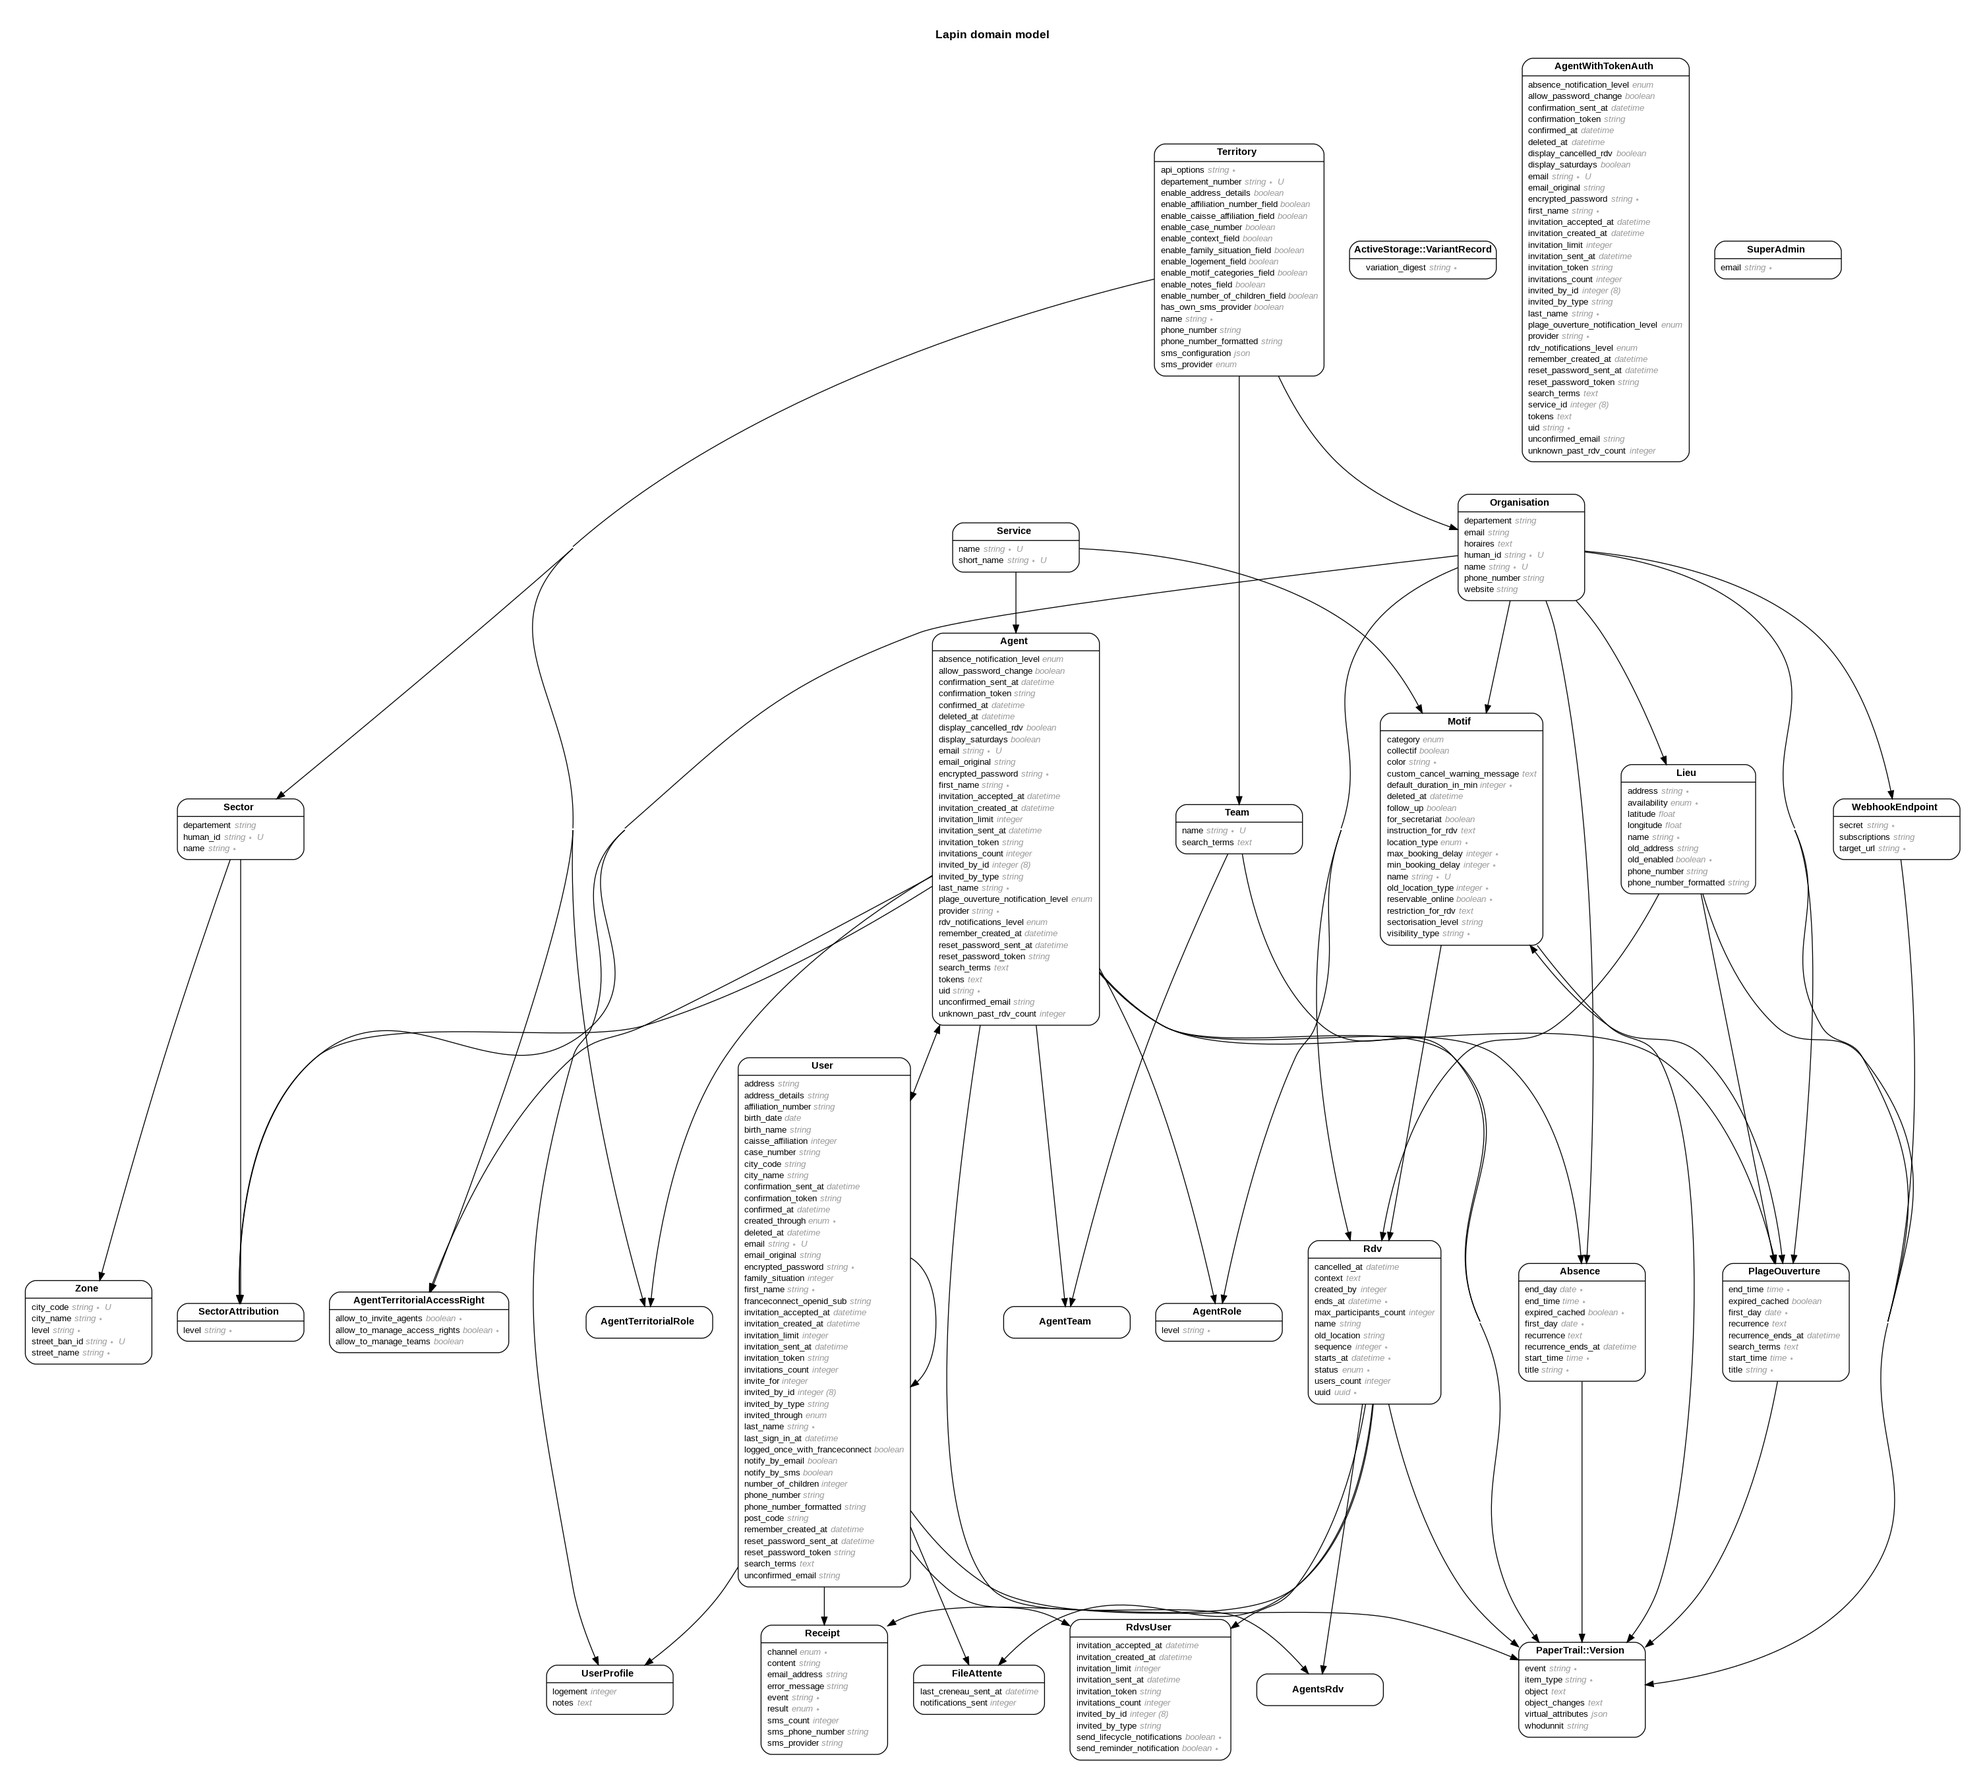
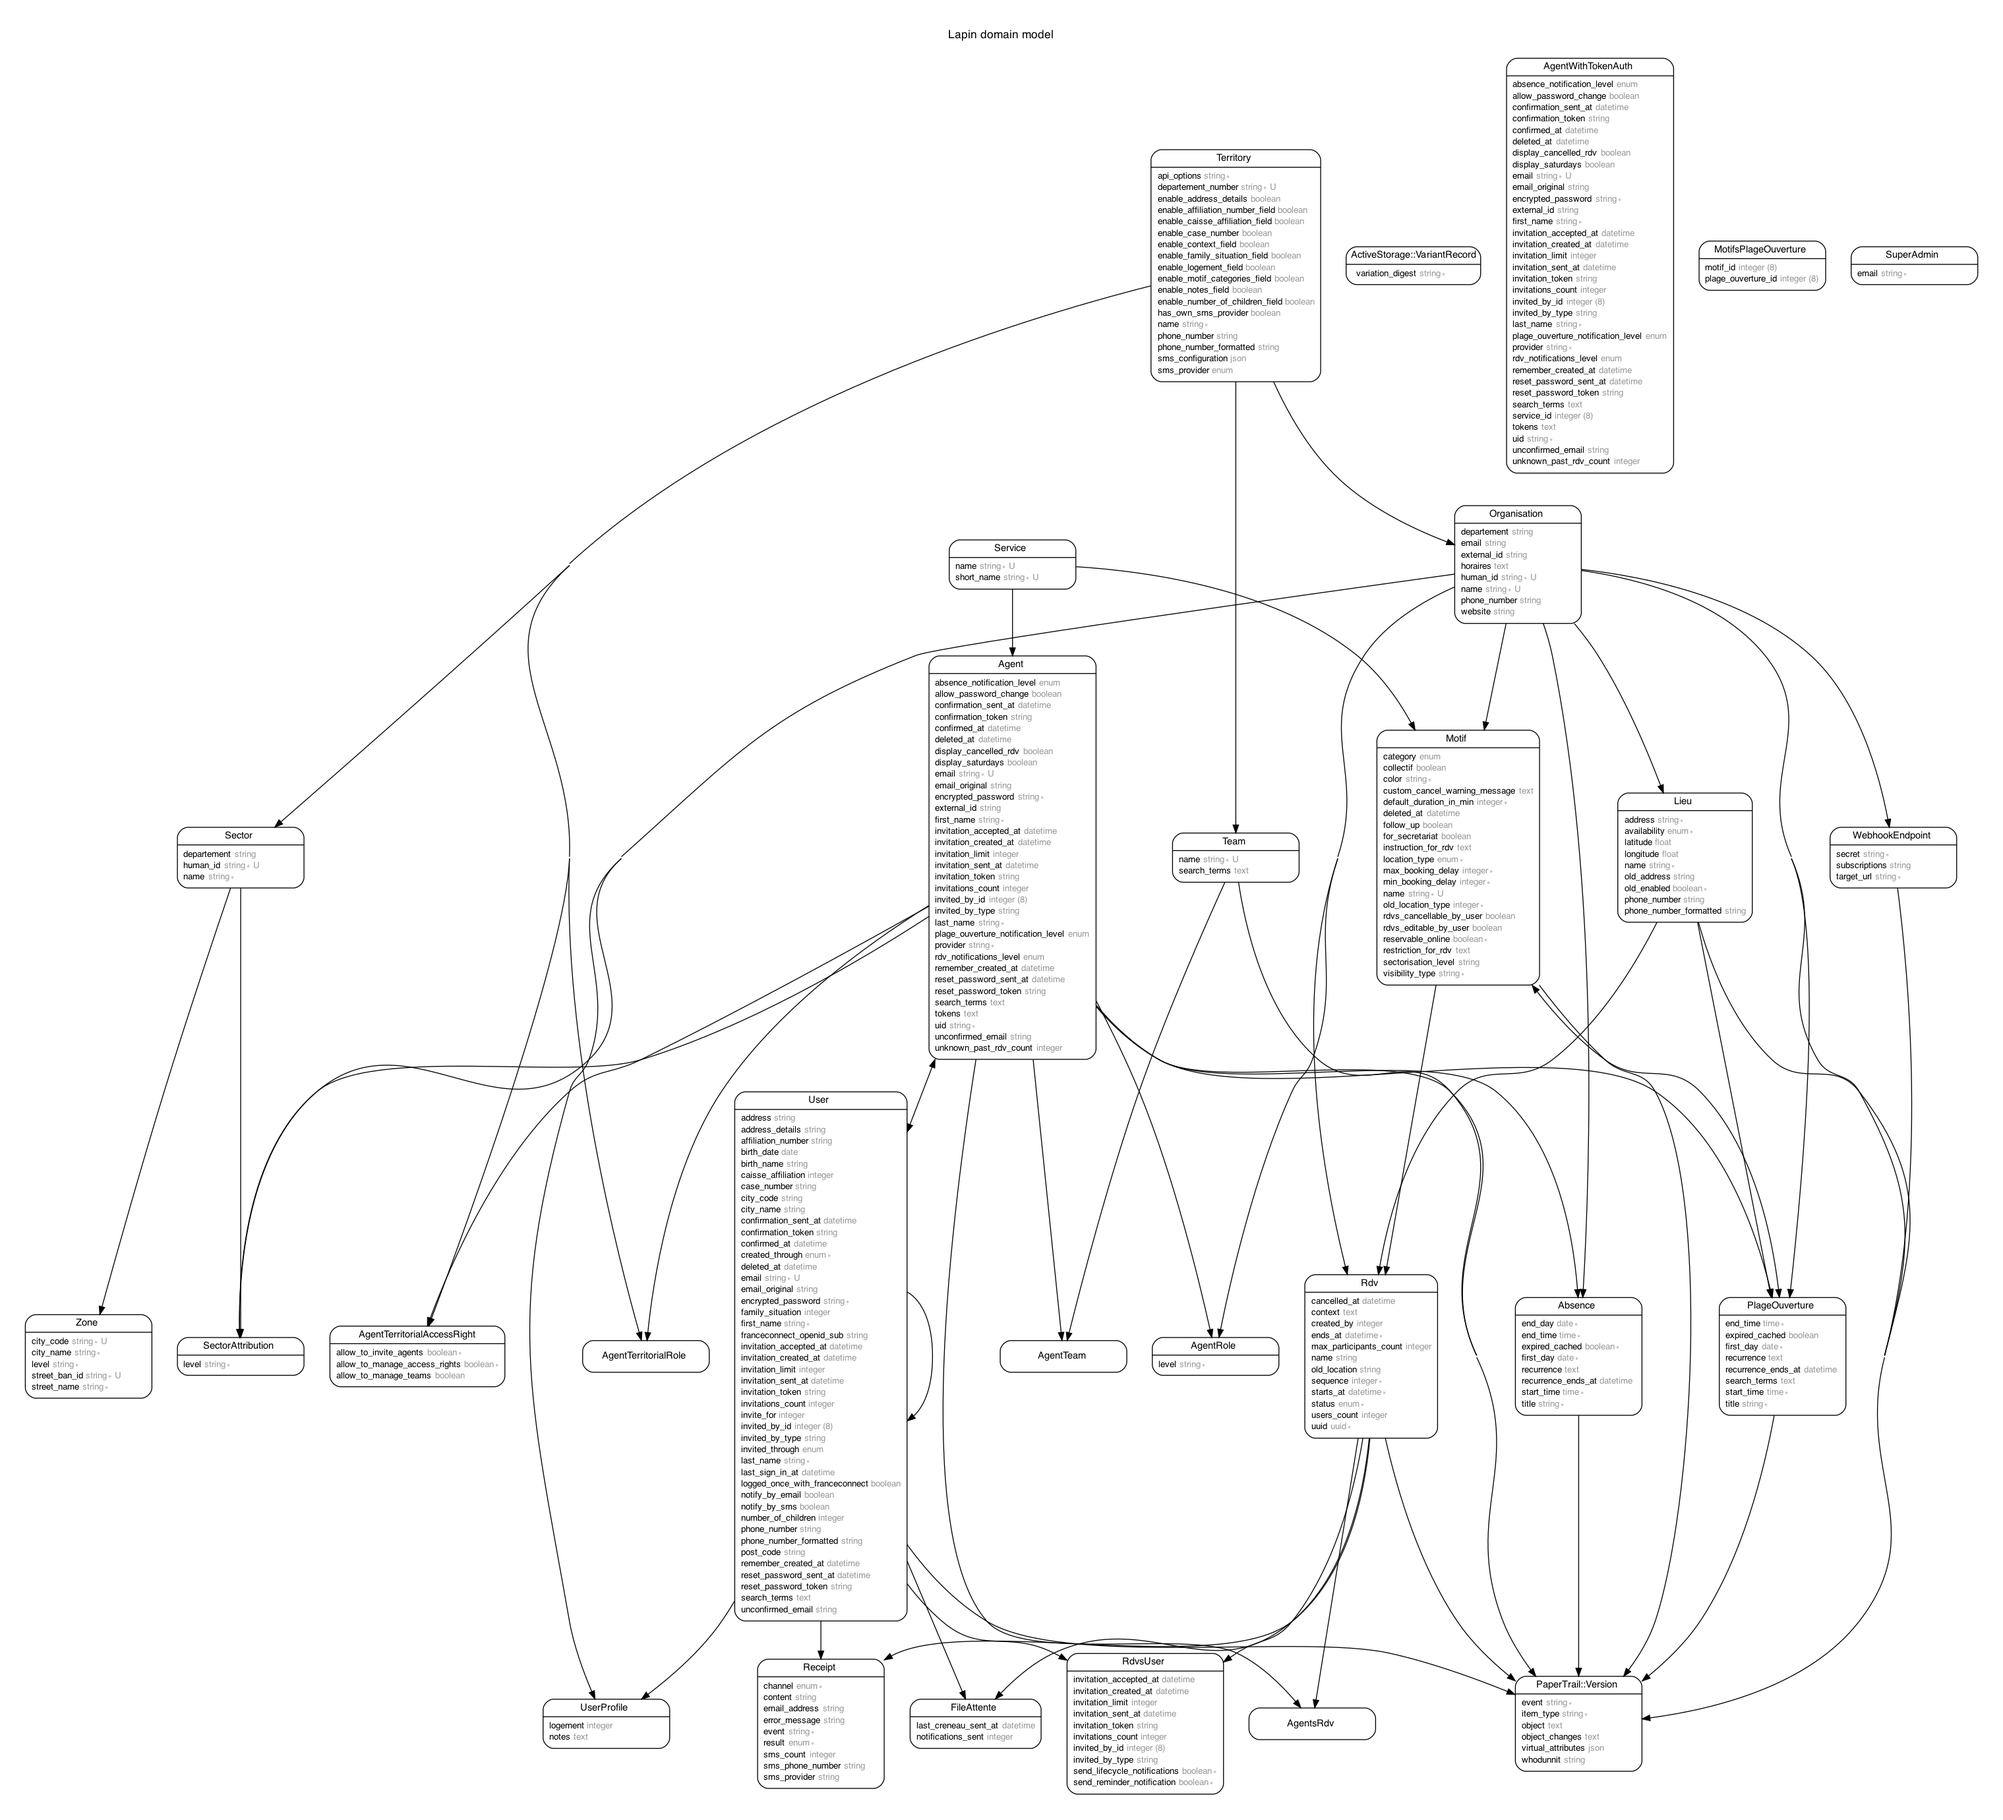
migration and some backfill scripts for external_id

diff --git a/db/schema.rb b/db/schema.rb
@@ -10,7 +10,7 @@
 #
 # It's strongly recommended that you check this file into your version control system.
 
-ActiveRecord::Schema.define(version: 2022_05_24_141757) do
+ActiveRecord::Schema.define(version: 2022_06_16_145020) do
 
   # These are extensions that must be enabled in order to support this database
   enable_extension "plpgsql"
@@ -93,7 +93,6 @@ ActiveRecord::Schema.define(version: 2022_05_24_141757) do
   ], force: :cascade
 
   create_enum :user_invited_through, [
-    "unknown",
     "devise_email",
     "external",
   ], force: :cascade
@@ -223,9 +222,11 @@ ActiveRecord::Schema.define(version: 2022_05_24_141757) do
     t.boolean "display_cancelled_rdv", default: true
     t.enum "plage_ouverture_notification_level", default: "all", enum_type: "agents_plage_ouverture_notification_level"
     t.enum "absence_notification_level", default: "all", enum_type: "agents_absence_notification_level"
+    t.string "external_id", comment: "The agent's unique and immutable id in the system managing them and adding them to our application"
     t.index "to_tsvector('simple'::regconfig, COALESCE(search_terms, ''::text))", name: "index_agents_search_terms", using: :gin
     t.index ["confirmation_token"], name: "index_agents_on_confirmation_token", unique: true
     t.index ["email"], name: "index_agents_on_email", unique: true
+    t.index ["external_id"], name: "index_agents_on_external_id", unique: true
     t.index ["invitation_token"], name: "index_agents_on_invitation_token", unique: true
     t.index ["invitations_count"], name: "index_agents_on_invitations_count"
     t.index ["invited_by_id"], name: "index_agents_on_invited_by_id"
@@ -363,6 +364,8 @@ ActiveRecord::Schema.define(version: 2022_05_24_141757) do
     t.string "website"
     t.string "email"
     t.bigint "territory_id", null: false
+    t.string "external_id", comment: "The organisation's unique and immutable id in the system managing them and adding them to our application"
+    t.index ["external_id"], name: "index_organisations_on_external_id", unique: true
     t.index ["human_id", "territory_id"], name: "index_organisations_on_human_id_and_territory_id", unique: true, where: "((human_id)::text <> ''::text)"
     t.index ["name", "territory_id"], name: "index_organisations_on_name_and_territory_id", unique: true
     t.index ["name"], name: "index_organisations_on_name"
@@ -595,7 +598,7 @@ ActiveRecord::Schema.define(version: 2022_05_24_141757) do
     t.string "city_code"
     t.string "post_code"
     t.string "city_name"
-    t.enum "invited_through", default: "unknown", enum_type: "user_invited_through"
+    t.enum "invited_through", default: "devise_email", enum_type: "user_invited_through"
     t.enum "created_through", default: "unknown", enum_type: "user_created_through"
     t.text "search_terms"
     t.string "case_number"

diff --git a/scripts/backfill_organisations_external_id_for_exact_matches.rb b/scripts/backfill_organisations_external_id_for_exact_matches.rb
@@ -1,0 +1,24 @@
+# frozen_string_literal: true
+
+require "csv"
+
+conseillers_numeriques = CSV.read("/tmp/uploads/export-cnfs.csv", headers: true, col_sep: ";")
+
+conseillers_numeriques.each do |conseiller_numerique|
+  agent = Agent.find_by(external_id: conseiller_numerique["Email @conseiller-numerique.fr"])
+
+  next if Organisation.find_by(external_id: conseiller_numerique["Id de la structure"])
+  next unless agent
+
+  exact_match = agent.organisations.count == 1 && agent.organisations.first.agents == [agent]
+
+  if exact_match
+    organisation = agent.organisations.first
+    # rubocop:disable Rails/SkipsModelValidations
+    organisation.update_columns(external_id: conseiller_numerique["Id de la structure"])
+    # rubocop:enable Rails/SkipsModelValidations
+    puts "Backfill effectué pour #{conseiller_numerique['Nom de la structure']} (#{conseiller_numerique['Id de la structure']})"
+  else
+    puts "Il y a plusieurs agents dans l'organisation #{conseiller_numerique['Nom de la structure']}. Ce cas sera traité dans un autre script."
+  end
+end

diff --git a/scripts/backfill_agents_external_id.rb b/scripts/backfill_agents_external_id.rb
@@ -1,0 +1,26 @@
+# frozen_string_literal: true
+
+# Usage :
+# scalingo run "rails runner scripts/backfill_agents_external_id.rb.rb" --app production-rdv-solidarites --region osc-secnum-fr1
+# A one-off script to backfill organisations.external_ids
+# This script can be deleted after we run it once
+
+# First thing we have to do is deduplicate some agents
+ids_of_agents_to_delete = [7658, 7931, 8661, 9762, 9063, 10_469]
+
+ids_of_agents_to_delete.each do |id|
+  agent_to_delete = Agent.find(id)
+  agent_to_delete.roles.first.delete
+  agent_to_delete.soft_delete
+end
+
+# Now we can backfill
+PaperTrail::Version.where(item_type: "Agent", event: "create").where("object_changes ilike '%conseiller-numerique.fr%'").find_each do |agent_version|
+  original_agent = YAML.unsafe_load(agent_version.object_changes)
+  agent = agent_version&.item
+  if agent && !agent.deleted_at
+    # rubocop:disable Rails::SkipsModelValidations
+    agent.update_columns(external_id: original_agent["email"].presence&.last)
+    # rubocop:enable Rails::SkipsModelValidations
+  end
+end

diff --git a/db/migrate/20220616145020_add_external_ids_to_agents_and_organisations.rb b/db/migrate/20220616145020_add_external_ids_to_agents_and_organisations.rb
@@ -1,0 +1,11 @@
+# frozen_string_literal: true
+
+class AddExternalIdsToAgentsAndOrganisations < ActiveRecord::Migration[6.1]
+  def change
+    add_column :agents, :external_id, :string, comment: "The agent's unique and immutable id in the system managing them and adding them to our application"
+    add_index :agents, :external_id, unique: true
+
+    add_column :organisations, :external_id, :string, comment: "The organisation's unique and immutable id in the system managing them and adding them to our application"
+    add_index :organisations, :external_id, unique: true
+  end
+end
